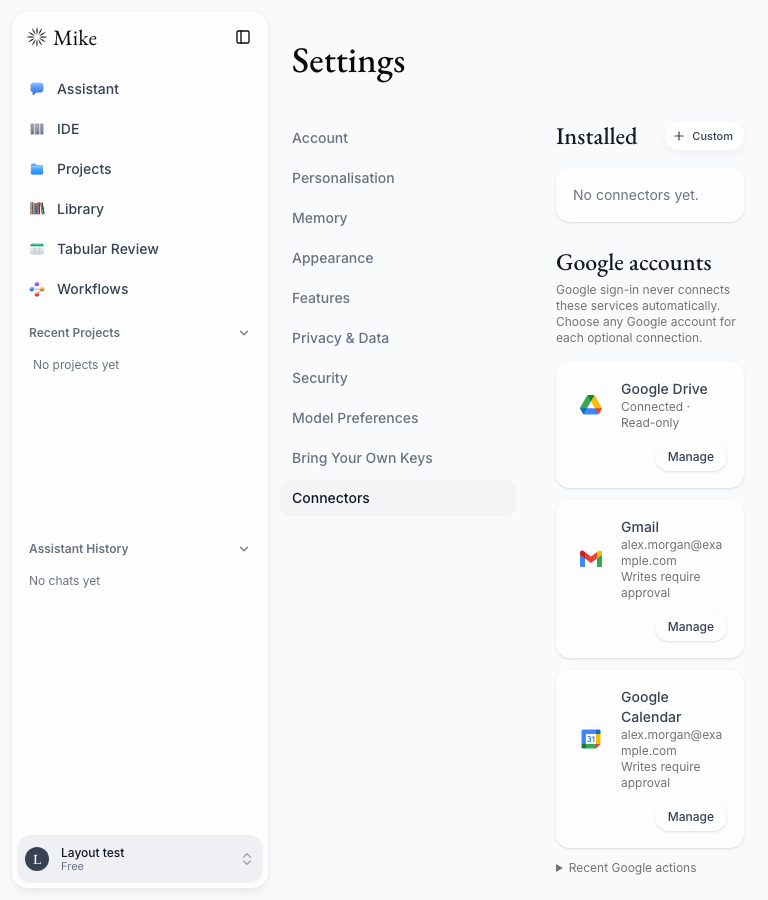
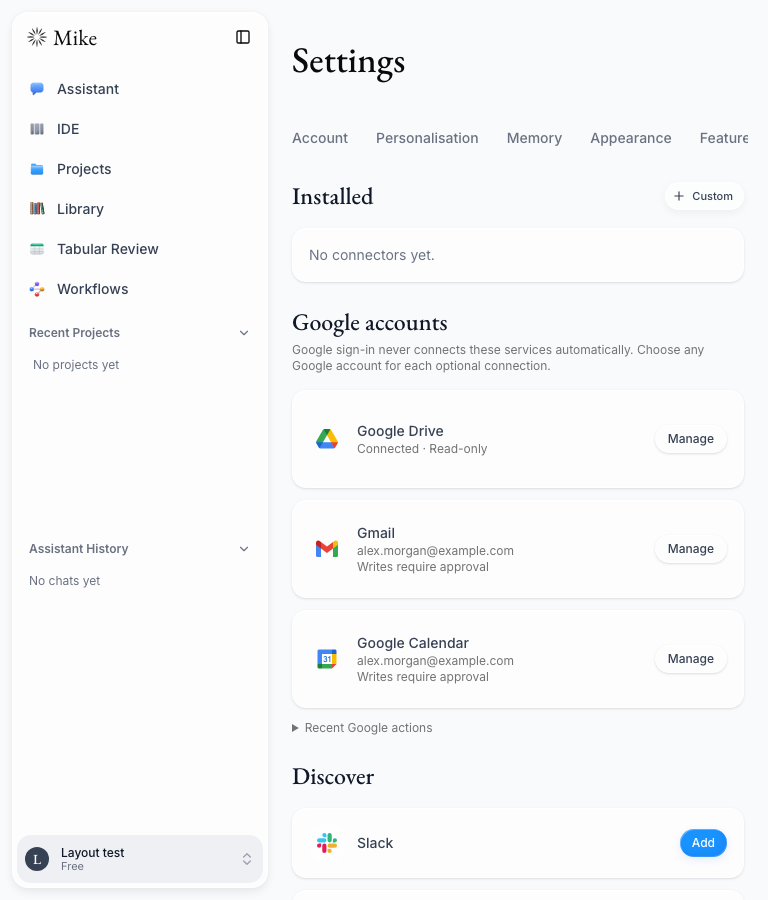
Keep Settings content readable beside the app sidebar

diff --git a/frontend/src/app/(pages)/settings/layout.tsx b/frontend/src/app/(pages)/settings/layout.tsx
@@ -72,15 +72,15 @@ export default function SettingsLayout({
                 </h1>
             </header>
 
-            <main className="mx-auto w-full max-w-5xl flex-1 px-6 pb-10 pt-4 md:pt-6">
-                <div className="grid grid-cols-1 gap-y-6 md:grid-cols-[224px_minmax(0,1fr)] md:gap-x-10">
+            <main className="@container/settings mx-auto w-full max-w-5xl flex-1 px-6 pb-10 pt-4 md:pt-6">
+                <div className="grid grid-cols-1 gap-y-6 @min-[52rem]/settings:grid-cols-[224px_minmax(0,1fr)] @min-[52rem]/settings:gap-x-10">
                     <nav
                         aria-label="Settings"
-                        className="z-10 -ml-3 min-w-0 self-start md:sticky md:top-4"
+                        className="z-10 -ml-3 min-w-0 self-start @min-[52rem]/settings:sticky @min-[52rem]/settings:top-4"
                     >
                         <div className="-m-1 min-w-0 p-1">
                             <div className="-m-1 min-w-0 overflow-x-auto overflow-y-hidden p-1">
-                                <ul className="mb-0 flex gap-1 md:flex-col">
+                                <ul className="mb-0 flex gap-1 @min-[52rem]/settings:flex-col">
                                     {TABS.map((tab) => {
                                         const active =
                                             pathname === tab.href ||

diff --git a/e2e/google-layout.spec.ts b/e2e/google-layout.spec.ts
@@ -81,6 +81,13 @@ for (const addressKind of ["normal", "long"] as const) {
         const card = page.getByRole("region", { name: `${name} connector`, exact: true });
         await expect(card.getByText(accountEmail, { exact: true })).toBeVisible();
         await expect(card.getByText("Writes require approval", { exact: true })).toBeVisible();
+        if (addressKind === "normal") {
+          const emailSize = await card.getByText(accountEmail, { exact: true }).evaluate((element) => ({
+            height: element.getBoundingClientRect().height,
+            lineHeight: Number.parseFloat(getComputedStyle(element).lineHeight),
+          }));
+          expect(emailSize.height, `${name} normal email should fit one line`).toBeLessThanOrEqual(emailSize.lineHeight + 1);
+        }
         for (const text of await card.locator("p").all()) {
           const overflow = await text.evaluate((element) => ({
             horizontal: element.scrollWidth - element.clientWidth,

diff --git a/docs/test-evidence/google-integrations-2026-09-23.md b/docs/test-evidence/google-integrations-2026-09-23.md
@@ -12,9 +12,9 @@ is incomplete. This report is not a merge-readiness sign-off.**
 
 ## Product-logo update and screenshot walkthrough
 
-The Google cards now show the separate Drive, Gmail, and Calendar product logos. Account emails and permissions remain fully visible on separate lines; long values wrap. Persistent content-fitting principles are saved in AGENTS.md and the design-system guide. [View all 17 screenshots](google-integrations-screenshot-walkthrough.md): opt-in setup, read-only connections, optional write access, inline Assistant approval/completion/rejection, and earlier live read evidence. Fixture UI captures and live Google proofs are explicitly distinguished. Desktop, dark, tablet, mobile, and Gmail dialog images below have been refreshed.
+The Google cards now show the separate Drive, Gmail, and Calendar product logos. Account emails and permissions remain fully visible on separate lines; long values wrap. Settings navigation now switches layout according to available content width, preventing the two-sidebar squeeze on tablets. Normal emails are asserted to fit on one line at every tested width. Persistent content-fitting principles are saved in AGENTS.md and the design-system guide. [View all 17 screenshots](google-integrations-screenshot-walkthrough.md): opt-in setup, read-only connections, optional write access, inline Assistant approval/completion/rejection, and earlier live read evidence. Fixture UI captures and live Google proofs are explicitly distinguished. Desktop, dark, tablet, mobile, and Gmail dialog images below have been refreshed.
 
-The logo change passed 34 focused component tests, 11 browser tests (including ten normal/long-email responsive/theme combinations, full text visibility, and successful local logo loads), changed-file lint, and production Webpack build/typechecking. Standard CI reruns on the new PR head.
+The logo change passed 35 focused component tests, 11 browser tests (including ten normal/long-email responsive/theme combinations, full text visibility, and successful local logo loads), changed-file lint, and production Webpack build/typechecking. Standard CI reruns on the new PR head.
 
 ## Automated baseline: all checks pass
 

diff --git a/docs/test-evidence/google-integrations-screenshot-walkthrough.md b/docs/test-evidence/google-integrations-screenshot-walkthrough.md
@@ -6,7 +6,7 @@ The connector cards now use the official Google Drive, Gmail, and Google Calenda
 
 **Screenshots 15–17 are the earlier real Google read-flow captures** from MikeOSS in `soy-oarlock-503613-m7`, with synthetic source data. They are not newly repeated tests. Gmail positive message reads and live approved writes remain outstanding. Google-owned account chooser/consent screens are not represented by the fixture screenshots. Drive remains read-only.
 
-Validation for the logo change: 34 connector component tests; 11 browser tests covering account selection/write upgrade/approval and normal/long addresses at 390/768/1280px in light/dark layouts; changed-file lint; production Webpack build and TypeScript. All passed. The local Turbopack attempt stalled after a sandbox port-binding error; CI retains the standard build command.
+Validation for the logo change: 35 connector/Settings component tests; 11 browser tests covering account selection/write upgrade/approval and normal/long addresses at 390/768/1280px in light/dark layouts; changed-file lint; production Webpack build and TypeScript. All passed. The local Turbopack attempt stalled after a sandbox port-binding error; CI retains the standard build command.
 
 ## 1. Connectors before opting in
 
